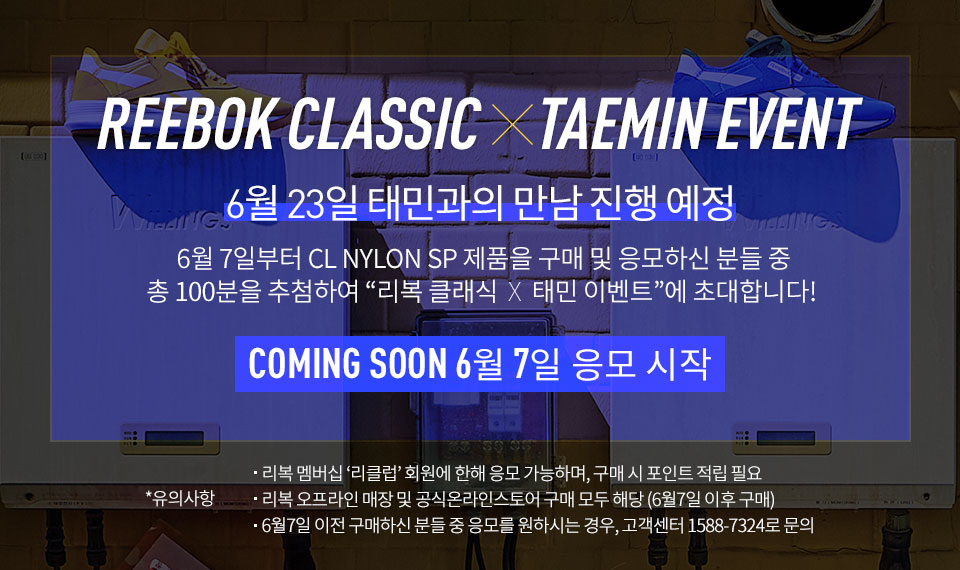
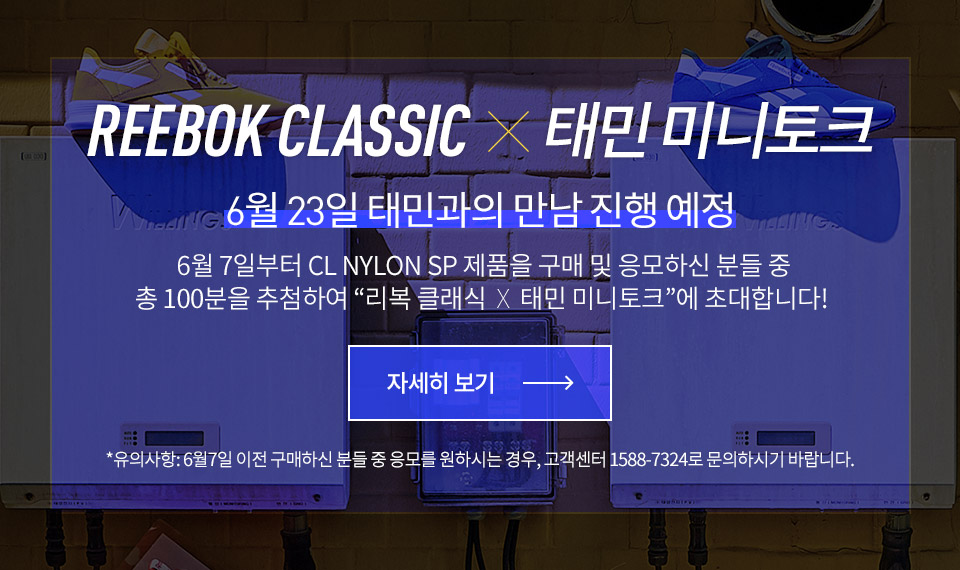
리복 태민 이벤트

diff --git a/app/html/reebok/event/aboutus/campaign/classic/nylon/build/index.html b/app/html/reebok/event/aboutus/campaign/classic/nylon/build/index.html
@@ -122,7 +122,7 @@
 			</section>
 
 			<section id="contents">
-<style type="text/css">#contents{padding-bottom:0px}.pseudo-element,.campaign .close:after,.campaign .close:before,.campaign .video_visual .video_layer:before,.campaign .video-btn:before,.campaign .location a:after{content:'';display:block}html{font-size:12px}@media screen and (max-width: 320px){html{font-size:10px}}@media screen and (min-width: 800px){html{font-size:12px}}.element_to_pop_up{background-color:#fafafb;color:#000;display:none;width:320px;overflow:hidden}@media screen and (max-width: 320px){.element_to_pop_up{width:300px}}.element_to_pop_up .b-close{cursor:pointer;position:absolute;right:15px;top:15px;text-align:right}.element_to_pop_up .b-close img{width:50%}.element_to_pop_up .con{text-align:center}.element_to_pop_up .con img{width:80%}.element_to_pop_up .desc{background:url("/images/reebok/about/heritage/pop_bg.png") 0 0 no-repeat;background-size:100% 100%;padding:3.5rem 0}.element_to_pop_up .desc .tle{position:relative;margin:0px 0 0 1rem;color:#000;font:600 4rem 'dinpro cond'}.element_to_pop_up .desc .tle:before{position:absolute;top:-20px;content:'';width:42px;height:2px;background:#000}.element_to_pop_up .desc .tle2{margin:1rem 0 0 1rem;color:#000;font:0.9rem/1.8rem  'NotoSansKR';letter-spacing:-0.8px}.element_to_pop_up .desc .btn{padding:2rem 0 0 1rem}.element_to_pop_up .desc .btn a.inner-buybtn{position:relative;display:inline-block;margin:0;padding:0 50px;color:#866432;border:2px solid #866432;font:15px/46px  'NotoSansKR';overflow:hidden}.element_to_pop_up .desc .btn a.inner-buybtn em{position:relative;z-index:100;transition:all 0.6s ease-out}.element_to_pop_up .desc .btn a.inner-buybtn .bg{display:inline-block;width:100%;height:63px;position:absolute;bottom:-64px;left:0;background:#866432;transition:all 0.4s ease-out}.element_to_pop_up .desc a.inner-buybtn:hover{color:#fff}.element_to_pop_up .desc a.inner-buybtn:hover .bg{bottom:-10px}.element_to_pop_up .bg_shoe{position:absolute;bottom:0;text-align:right}.element_to_pop_up .bg_shoe img{width:60%;mix-blend-mode:multiply}.clearfix:after{content:'.';display:block;height:0;font-size:0;clear:both;visibility:hidden}.campaign .close{width:40px;height:40px;display:block;position:absolute;top:0;right:0;z-index:10}.campaign .close:after,.campaign .close:before{width:50%;height:1px;position:absolute;top:50%;left:50%;transform:translate3d(-50%, -50%, 0) rotate(45deg);-webkit-transform:translate3d(-50%, -50%, 0) rotate(45deg);background:#5c5c5c}.campaign .close:after{transform:translate3d(-50%, -50%, 0) rotate(-45deg);-webkit-transform:translate3d(-50%, -50%, 0) rotate(-45deg)}.campaign .button_area{padding:0rem 0px;text-align:center}.campaign .button_area .button{padding:1.2rem 2.5rem;display:inline-block;font:500 1.3rem 'dinpro cond','NotoSansKR';color:#000;border:1px solid  #000}.campaign .video_visual{box-sizing:border-box;-webkit-box-sizing:border-box;width:100%;padding-bottom:123.4375%;position:relative}.campaign .video_visual .cover{width:100%;position:absolute;top:50%;left:0;transform:translate3d(0, -50%, 0);-webkit-transform:translate3d(0, -50%, 0);z-index:1}.campaign .video_visual .cover h2{font:4rem/4rem 'QStencil';text-align:center}.campaign .video_visual .bg{position:absolute;width:100%;height:100%}.campaign .video_visual .bg img{width:100%}.campaign .video_visual .video_layer{position:absolute;top:0;left:0;width:100%;height:100%;z-index:-1;overflow:hidden}.campaign .video_visual .video_layer .close{width:40px;height:40px;top:5px;right:5px;opacity:0;transition:opacity 0.5s ease 0.3s;-webkit-transition:opacity 0.5s 0.3s}.campaign .video_visual .video_layer .close:before,.campaign .video_visual .video_layer .close:after{width:70%;height:2px;background:#fff}.campaign .video_visual .video_layer iframe{position:relative;z-index:3}.campaign .video_visual .video_layer:before{width:100%;height:100%;transition:all 0.5s;-webkit-transition:all 0.5s;background:#000;filter:blur(10px);-webkit-filter:blur(10px);opacity:0;transform-origin:center center;-webkit-transform-origin:center center;transform:scale(0);-webkit-transform:scale(0);position:absolute;top:0;left:0}.campaign .video_visual .video_layer.active{z-index:1}.campaign .video_visual .video_layer.active .close{opacity:1}.campaign .video_visual .video_layer.active:before{opacity:1;transform:scale(2);-webkit-transform:scale(2)}.campaign .video_visual .video_layer.hide{z-index:1}.campaign .video_visual .video_layer.hide .close{opacity:0;transition-delay:0;-webkit-transition-delay:0}.campaign .video_visual .video_layer.hide:before{opacity:0;transform:scale(0);-webkit-transform:scale(0)}.campaign .video-btn{width:70px;height:70px;display:block;border:7px solid  #fff;position:relative;border-radius:70px;box-sizing:border-box;-webkit-box-sizing:border-box}.campaign .video-btn:before{position:absolute;top:50%;left:50%;border-top:14px solid transparent;border-bottom:14px solid transparent;border-left:14px solid #fff;margin-left:2px;transform:translate3d(-50%, -50%, 0);-webkit-transform:translate3d(-50%, -50%, 0)}.campaign .location{display:-webkit-flex;display:-moz-flex;display:-ms-flex;display:-o-flex;display:flex;padding:15px 13px;border-top:2px solid  #b71720;background:#252525}.campaign .location>*{margin-right:15px;font:500 13px 'dinpro cond';text-transform:uppercase}.campaign .location a{position:relative;color:#8c8c8c}.campaign .location a:after{width:4px;height:4px;position:absolute;top:2px;right:-9px;border-bottom:1px solid #5c5c5c;border-right:1px solid #5c5c5c;transform:rotate(-45deg);-webkit-transform:rotate(-45deg)}.campaign .location>span{color:#fff;margin-right:0}.campaign .location>span .colab{margin:0px 2px;font-family:'dinpro cond';font-weight:100}.campaign .num_paging{text-align:center}.campaign .num_paging a{width:26px;height:26px;border-radius:26px;margin:0 2px;display:inline-block;border:1px solid #fff;box-sizing:border-box;color:#fff;font:16px/26px 'reefont-condensed';transition-duration:0s;-webkit-transition-duration:0s}.campaign .num_paging .on{color:#000;border-color:#000;background:#000;color:#fff}.campaign .prodlist{width:100%;padding:0 15px;position:relative;display:-webkit-flex;display:-moz-flex;display:-ms-flex;display:-o-flex;display:flex;-webkit-flex-wrap:wrap;flex-wrap:wrap;box-sizing:border-box;-webkit-box-sizing:border-box}.campaign .prodlist>.box{width:50%;margin-bottom:10px}.campaign .prodlist>.box .inner{width:100%;padding-right:5px;position:relative;box-sizing:border-box;-webkit-box-sizing:border-box}.campaign .prodlist>.box .inner>a{width:100%;width:calc(100% - 5px);height:100%;position:absolute;top:0;left:0;display:block;z-index:5}.campaign .prodlist>.box .img{width:100%;position:relative;padding-bottom:122.6190%;background:#fff}.campaign .prodlist>.box .img img{position:absolute;top:0;left:0;width:100%}.campaign .prodlist>.box .info{padding:20px 0 20px 12px;background:#fff}.campaign .prodlist>.box .info>*{text-transform:uppercase;font:500 1rem 'dinpro cond'}.campaign .prodlist>.box .info .ctgr{margin-bottom:0.2rem;color:#7f7979}.campaign .prodlist>.box .info .tit a{color:#252525;font:500 1.4rem 'dinpro cond'}.campaign .prodlist>.box:nth-child(2n) .inner{padding-right:0;padding-left:5px}.main .video_visual{width:100%;padding-bottom:104%;position:relative}.main .video_visual .cover>*{color:#fff;text-align:center}.main .video_visual .cover h2{font:5.4rem/5rem 'QStencil';color:#fff;margin-bottom:1.2rem}.main .video_visual .cover .desc{margin-bottom:2rem;font:300 1.6rem 'NotoSansKR'}.main .video_visual .cover .video-btn{width:60px;height:60px;border-width:6px;margin:0 auto}.main .video_visual .cover .video-btn:before{border-top-width:12px;border-bottom-width:12px;border-left-width:12px}.main .video_visual .bg{overflow:hidden}.main .video_visual .bg img{position:absolute;top:0;left:0;opacity:0;transform:scale(1.02);-webkit-transform:scale(1.02);transition:all 1.5s;-webkit-transition:all 1.5s}.main .video_visual .bg img.active{opacity:1;transform:scale(1);-webkit-transform:scale(1)}.main .camapign_list a{width:100%;padding-bottom:104%}.main .camapign_list img{width:100%}.about_campaign .banner{width:100%}.about_campaign .banner *{display:block;width:100%}.about_campaign .list_btn{background:#e8e8e8;padding:4rem 1.5rem}.about_campaign .list_btn a{width:100%;height:5rem;display:block;border:1px solid #2e2e2e;text-align:center;font:500 2.2rem/5rem 'dinpro cond';color:#000;letter-spacing:2px}.about_campaign .list{background:#333;text-align:center}.about_campaign .list a{color:#fff;display:block;padding:2.3rem 6rem}.about_campaign .list a span{position:relative;left:-5px;display:inline-block;width:68%;vertical-align:middle}.about_campaign .list a span img{width:100%}.about_campaign .list a em{vertical-align:middle}.about_campaign .list a em:after{font-size:15px;position:relative;top:1px}.about_campaign .list a:after{font-size:1.5rem;padding:0.5rem 0 0 1rem;display:inline-block}#video-layer.popup-video.loaded .bg{opacity:.7}#video-layer.popup-video .video-box{position:absolute;top:50%;left:50%;width:100%;height:50%;transform:translate(-50%, -50%);-webkit-transform:translate(-50%, -50%);-moz-transform:translate(-50%, -50%);-o-transform:translate(-50%, -50%);-ms-transform:translate(-50%, -50%);z-index:3}#video-layer.popup-video .close_x_btn{width:50px;height:50px;top:12%}#video-layer{position:fixed;top:0;left:0;width:100%;height:100%;z-index:1000}#video-layer.loaded .bg{opacity:1;transform:scale(1.2);-webkit-transform:scale(1.2)}#video-layer.loaded .close_x_btn{opacity:1}#video-layer .video-box{position:relative;width:100%;height:100%;z-index:3}#video-layer .close_x_btn{width:70px;height:70px;position:absolute;top:0;right:0;z-index:5;opacity:0}#video-layer .bg{width:100%;height:100%;position:absolute;top:0;left:0;transform-origin:center center;-webkit-transform-origin:center center;transform:scale(0);-webkit-transform:scale(0);opacity:0;background:#000;z-index:1;transition:all 0.4s;-webkit-transition:all 0.4s}.main_list .video_visual{position:relative;background:#eff0ea;padding-bottom:149%}@media screen and (min-width: 750px){.main_list .video_visual{padding-bottom:125%}}.main_list .video_visual .bg img{box-sizing:border-box;-webkit-box-sizing:border-box;border:10px solid #eff0ea}.main_list .video_visual .cover{top:35%}.main_list .video_visual .txt{position:absolute;bottom:8%;width:100%;text-align:center}.main_list .video_visual .txt a.full_link{position:absolute;top:-16px;left:0;width:100%;height:143%}@media screen and (min-width: 750px){.main_list .video_visual .txt{bottom:6%}}.main_list .video_visual .txt .title{font:3.3rem 'QStencil'}.main_list .video_visual .txt .tit{display:inline-block;padding-bottom:1.5rem;font:400 1.2rem 'NotoSansKR';letter-spacing:-1px}.main_list .video_visual .txt .btn a{display:inline-block;padding:0.3rem 3.5rem 0 3.5rem;border:1px solid #151515;font:400 1.3rem/3.8rem 'dinpro cond', 'NotoSansKR';color:#000}.main_list .box{position:relative;border-bottom:2px solid #bebfba}.main_list .box a.nano_m{position:absolute;top:0;left:0;width:50%;height:100%}.main_list .box a.nano_w{position:absolute;top:0;right:0;width:50%;height:100%}.main_list .box a.full_link{position:absolute;top:0;left:0;width:100%;height:100%}.main_list .box .img{border:10px solid #eff0ea;box-sizing:border-box;-webkit-box-sizing:border-box}.main_list .box .img img{width:100%}.main_list .box .txt{padding:1rem 0 3rem 0;text-align:center;background:#eff0ea}.main_list .box .txt .title{font:3.8rem 'QStencil'}.main_list .box .txt .title span{display:inline-block;vertical-align:middle;line-height:4rem}.main_list .box .txt .title span img{width:3.3rem}.main_list .box .txt .tit{display:inline-block;padding-bottom:1.5rem;font:400 1.1rem 'NotoSansKR';letter-spacing:-1px}.main_list .box .txt .btn a{display:inline-block;width:12rem;padding:0.3rem 0 0 0;border:1px solid #151515;font:1.3rem/3.8rem 'dinpro cond', 'NotoSansKR';color:#000}.campaign_list_update{display:block;background:url("/images/reebok/about/campaign_list/bg.jpg");background-size:100%;padding:8rem 1rem 4rem 1rem}.campaign_list_update .box{padding-bottom:1rem}.campaign_list_update .box a{display:block}.campaign_list_update .box a img{width:100%}.campaign_list_update .box:last-child{padding-bottom:0px}.nylon .main_section{position:relative}.nylon .main_section .bg img{width:100%}.nylon .main_section .inn{position:absolute;top:65%;left:50%;width:100%;transform:translate(-50%, -50%);-webkit-transform:translate(-50%, -50%);text-align:center}.nylon .main_section .inn .btn{position:relative;margin:10px 1px;display:inline-block;width:165px;background:rgba(0,0,0,0.3);border:1px solid #fff}.nylon .main_section .inn .btn em{color:#fff;font:700 13px/43px 'NotoSansKR';text-transform:uppercase;position:relative;left:-31px}.nylon .main_section .inn .btn span{position:absolute;right:20px;top:16px;width:41px;height:13px;display:inline-block;background:url(/images/reebok/about/classic/nylon/icon_arrow.png) no-repeat;background-size:100%}.nylon .title{padding:35px 0;text-align:center}.nylon .title img{width:60%}.nylon .video_wrap{margin:50px 30px;text-align:center}.nylon .video_wrap .video{margin:0 0 25px 0}.nylon .video_wrap .video img{width:100%}.nylon .video_wrap .title{padding:10px 0 14px;font:40px/30px 'dinpro cond';font-weight:700;text-transform:uppercase;text-align:center}.nylon .video_wrap .title em{font:40px/38px 'dinpro cond';font-weight:100}.nylon .video_wrap .btn{position:relative;margin:10px 1px;display:inline-block;width:45%;border:2px solid #000}.nylon .video_wrap .btn em{color:#000;font:700 13px/43px 'NotoSansKR';text-transform:uppercase;position:relative;left:-29px}.nylon .video_wrap .btn span{position:absolute;right:20px;top:18px;width:41px;height:13px;display:inline-block;background:url(/images/reebok/about/classic/nylon/icon_b_arrow.png) no-repeat;background-size:100%}.nylon .slider_wrap{position:relative;padding:0 40px 35px;background:url(/images/reebok/about/classic/nylon/slide_bg.jpg) 0 no-repeat;background-size:100% auto;background-position:bottom;opacity:0;-webkit-opacity:0;transition:all 0.5s}.nylon .slider_wrap.effect{opacity:1;-webkit-opacity:1}.nylon .slider_wrap .num_paging{position:relative;top:5px;text-align:right}.nylon .slider_wrap .num_paging a{display:inline-block;width:12px;height:12px;border:2px solid #ffd940;border-radius:0}.nylon .slider_wrap .num_paging a.on{background:#ffd940}.nylon .collections3{overflow:hidden}.nylon .collections3 ul li{position:relative;float:left;padding-bottom:15px;overflow:hidden}.nylon .collections3 ul li.on .img_section img{left:0;opacity:1;-webkit-opacity:1}.nylon .collections3 ul li.on .img_section .tit{opacity:1;-webkit-opacity:1}.nylon .collections3 ul li.slide1 .img_section img{width:96%}.nylon .collections3 ul li.slide1 .img_section:after{position:absolute;top:13px;right:-14px;content:'';display:block;width:100%;height:100%;background:#ffd940}.nylon .collections3 ul li.slide3 .img_section{text-align:center}.nylon .collections3 ul li.slide3 .img_section img{width:95%}.nylon .collections3 ul li.slide3 .img_section:after{position:absolute;top:16%;left:0;content:'';display:block;width:100%;height:86%;background:#ffeeab}.nylon .collections3 ul li .bt_area{width:100%;background:url("/images/reebok/about/Critic_collaboration/bt_bg.png") 0 0 no-repeat;background-size:100%;padding-top:1.5rem;padding-bottom:2rem;margin:0 0 2rem 0}.nylon .collections3 ul li .bt_area .bt_buy{width:93%;margin:0 auto;height:3.3rem;padding:0.8rem 0}.nylon .collections3 ul li .img_section{position:relative}.nylon .collections3 ul li .img_section img{position:relative;left:-50px;width:100%;z-index:1;opacity:0;-webkit-opacity:0;transition:all 0.5s;-webkit-transition:all 0.5s;transition-delay:0.2s}.nylon .collections3 ul li .img_section .tit{width:25px;height:25px;background:rgba(0,0,0,0.8);text-align:center;color:#fff;font:500 14px/25px 'dinpro','Nanum Gothic';box-sizing:border-box;-webkit-box-sizing:border-box;opacity:0;-webkit-opacity:0;transition:opacity 0.5s;-webkit-transition:opacity 0.5s;transition-delay:0.5s;z-index:1}.nylon .collections3 ul li .img_section .tit.active{border:1px solid #fff;line-height:22px}.nylon .collections3 ul:after{content:'';display:block;clear:both}.nylon .collections3 .prd_titles_wrap{position:relative;padding-bottom:47%}@media screen and (max-width: 320px){.nylon .collections3 .prd_titles_wrap{padding-bottom:54%}}.nylon .collections3 .prd_titles_wrap a{position:absolute;top:0;left:0;width:100%;height:20px;z-index:2}.nylon .collections3 .prd_titles_wrap .prd_titles{position:absolute;top:15px;left:0;width:100%;opacity:0;-webkit-opacity:0;transition:all 0.5s;-webkit-transition:all 0.5s}.nylon .collections3 .prd_titles_wrap .prd_titles.on{opacity:1}.nylon .collections3 .prd_titles_wrap .prd_titles .title_box{position:relative;margin:0 0 10px 0}.nylon .collections3 .prd_titles_wrap .prd_titles .title_box.active span.label{border:1px solid #fff}.nylon .collections3 .prd_titles_wrap .prd_titles .title_box>*{display:inline-block}.nylon .collections3 .prd_titles_wrap .prd_titles .title_box span.label{position:absolute;left:0;top:5px;width:25px;height:25px;color:#000;text-align:center;font:500 12px/23px 'dinpro','Nanum Gothic';box-sizing:border-box;-webkit-box-sizing:border-box;background:#000;color:#fff;border:1px solid #000}.nylon .collections3 .prd_titles_wrap .prd_titles .title_box p{position:relative;width:100%;margin-left:32px}.nylon .collections3 .prd_titles_wrap .prd_titles .title_box p strong{position:relative;font:400 13px/23px 'dinpro cond','Nanum Gothic';background:none;margin-right:10px;color:#fff;letter-spacing:0.7px;z-index:1}@media screen and (max-width: 320px){.nylon .collections3 .prd_titles_wrap .prd_titles .title_box p strong{margin-right:2px;font-size:11px}}.nylon .collections3 .prd_titles_wrap .prd_titles .title_box p em{position:relative;color:#fff;font:500 14px/30px 'NotoSansKR','Nanum Gothic';z-index:1;letter-spacing:-0.7px}@media screen and (max-width: 320px){.nylon .collections3 .prd_titles_wrap .prd_titles .title_box p em{font-size:12px}}.nylon .collections3 .prd_titles_wrap .prd_titles .title_box p:after{content:'';display:inline-block;position:absolute;bottom:6px;left:0;width:100%;background:#005985;width:100%;height:5px}.nylon .collections3 .prd_titles_wrap .prd_titles .title_box .btn_wrap{position:absolute;top:-4px;right:1px}.nylon .collections3 .prd_titles_wrap .prd_titles .title_box .btn_wrap span.btn{position:relative;display:inline-block;padding-right:30px}.nylon .collections3 .prd_titles_wrap .prd_titles .title_box .btn_wrap span.btn em{color:#fff;font:700 11px/43px 'dinpro cond';text-transform:uppercase;position:relative;letter-spacing:-0.7px}.nylon .collections3 .prd_titles_wrap .prd_titles .title_box .btn_wrap span.btn span{position:absolute;right:0px;top:18px;width:20px;height:8px;display:inline-block;background:url(/images/reebok/about/classic/nylon/icon_arrow.png) no-repeat;background-size:100%}.nylon .event_area{opacity:0;-webkit-opacity:0;transition:all 0.5s}.nylon .event_area.effect{opacity:1;-webkit-opacity:1}.nylon .event_area img{width:100%}.nylon .event_area a.link{display:block;position:absolute;text-indent:-9999px}.selectbox-ctm{height:40px;position:relative;border:1px solid  #ccc}.selectbox-ctm select{height:100%;width:100%;position:relative;display:block;padding-left:20px;color:#000;font:400 14px/44px 'NotoSansKR','Nanum Gothic';background:#fff;z-index:4;border:0 none;box-sizing:border-box;-webkit-box-sizing:border-box}.selectbox-ctm>.arrow{width:14px;height:8px;position:absolute;top:50%;margin-top:-4px;right:14px;background-position:-70px -2400px;z-index:5}.selectbox-ctm.red>.arrow{background-position:-85px -2400px}.selectbox-ctm.disabled>.arrow{opacity:0.3;-ms-filter:alpha(opacity=30);filter:alpha(opacity=30)}.input-custom-check{display:block;position:relative;padding-left:30px;text-align:left;cursor:pointer;font:00 14px/20px 'NotoSansKR';-webkit-user-select:none;-moz-user-select:none;-ms-user-select:none;user-select:none}.input-custom-check input{position:absolute;opacity:0;cursor:pointer}.checkmark{position:absolute;top:0;left:0;height:20px;width:20px;background-color:#eee}.input-custom-check:hover input ~ .checkmark{background-color:#ccc}.input-custom-check input:checked ~ .checkmark{background-color:#ab2229}.checkmark:after{content:"";position:absolute;display:none}.input-custom-check input:checked ~ .checkmark:after{display:block}.input-custom-check .checkmark:after{left:7px;top:1px;width:4px;height:10px;border:solid white;border-width:0 3px 3px 0;-webkit-transform:rotate(45deg);-ms-transform:rotate(45deg);transform:rotate(45deg)}
+<style type="text/css">#contents{padding-bottom:0px}.pseudo-element,.campaign .close:after,.campaign .close:before,.campaign .video_visual .video_layer:before,.campaign .video-btn:before,.campaign .location a:after{content:'';display:block}html{font-size:12px}@media screen and (max-width: 320px){html{font-size:10px}}@media screen and (min-width: 800px){html{font-size:12px}}.element_to_pop_up{background-color:#fafafb;color:#000;display:none;width:320px;overflow:hidden}@media screen and (max-width: 320px){.element_to_pop_up{width:300px}}.element_to_pop_up .b-close{cursor:pointer;position:absolute;right:15px;top:15px;text-align:right}.element_to_pop_up .b-close img{width:50%}.element_to_pop_up .con{text-align:center}.element_to_pop_up .con img{width:80%}.element_to_pop_up .desc{background:url("/images/reebok/about/heritage/pop_bg.png") 0 0 no-repeat;background-size:100% 100%;padding:3.5rem 0}.element_to_pop_up .desc .tle{position:relative;margin:0px 0 0 1rem;color:#000;font:600 4rem 'dinpro cond'}.element_to_pop_up .desc .tle:before{position:absolute;top:-20px;content:'';width:42px;height:2px;background:#000}.element_to_pop_up .desc .tle2{margin:1rem 0 0 1rem;color:#000;font:0.9rem/1.8rem  'NotoSansKR';letter-spacing:-0.8px}.element_to_pop_up .desc .btn{padding:2rem 0 0 1rem}.element_to_pop_up .desc .btn a.inner-buybtn{position:relative;display:inline-block;margin:0;padding:0 50px;color:#866432;border:2px solid #866432;font:15px/46px  'NotoSansKR';overflow:hidden}.element_to_pop_up .desc .btn a.inner-buybtn em{position:relative;z-index:100;transition:all 0.6s ease-out}.element_to_pop_up .desc .btn a.inner-buybtn .bg{display:inline-block;width:100%;height:63px;position:absolute;bottom:-64px;left:0;background:#866432;transition:all 0.4s ease-out}.element_to_pop_up .desc a.inner-buybtn:hover{color:#fff}.element_to_pop_up .desc a.inner-buybtn:hover .bg{bottom:-10px}.element_to_pop_up .bg_shoe{position:absolute;bottom:0;text-align:right}.element_to_pop_up .bg_shoe img{width:60%;mix-blend-mode:multiply}.clearfix:after{content:'.';display:block;height:0;font-size:0;clear:both;visibility:hidden}.campaign .close{width:40px;height:40px;display:block;position:absolute;top:0;right:0;z-index:10}.campaign .close:after,.campaign .close:before{width:50%;height:1px;position:absolute;top:50%;left:50%;transform:translate3d(-50%, -50%, 0) rotate(45deg);-webkit-transform:translate3d(-50%, -50%, 0) rotate(45deg);background:#5c5c5c}.campaign .close:after{transform:translate3d(-50%, -50%, 0) rotate(-45deg);-webkit-transform:translate3d(-50%, -50%, 0) rotate(-45deg)}.campaign .button_area{padding:0rem 0px;text-align:center}.campaign .button_area .button{padding:1.2rem 2.5rem;display:inline-block;font:500 1.3rem 'dinpro cond','NotoSansKR';color:#000;border:1px solid  #000}.campaign .video_visual{box-sizing:border-box;-webkit-box-sizing:border-box;width:100%;padding-bottom:123.4375%;position:relative}.campaign .video_visual .cover{width:100%;position:absolute;top:50%;left:0;transform:translate3d(0, -50%, 0);-webkit-transform:translate3d(0, -50%, 0);z-index:1}.campaign .video_visual .cover h2{font:4rem/4rem 'QStencil';text-align:center}.campaign .video_visual .bg{position:absolute;width:100%;height:100%}.campaign .video_visual .bg img{width:100%}.campaign .video_visual .video_layer{position:absolute;top:0;left:0;width:100%;height:100%;z-index:-1;overflow:hidden}.campaign .video_visual .video_layer .close{width:40px;height:40px;top:5px;right:5px;opacity:0;transition:opacity 0.5s ease 0.3s;-webkit-transition:opacity 0.5s 0.3s}.campaign .video_visual .video_layer .close:before,.campaign .video_visual .video_layer .close:after{width:70%;height:2px;background:#fff}.campaign .video_visual .video_layer iframe{position:relative;z-index:3}.campaign .video_visual .video_layer:before{width:100%;height:100%;transition:all 0.5s;-webkit-transition:all 0.5s;background:#000;filter:blur(10px);-webkit-filter:blur(10px);opacity:0;transform-origin:center center;-webkit-transform-origin:center center;transform:scale(0);-webkit-transform:scale(0);position:absolute;top:0;left:0}.campaign .video_visual .video_layer.active{z-index:1}.campaign .video_visual .video_layer.active .close{opacity:1}.campaign .video_visual .video_layer.active:before{opacity:1;transform:scale(2);-webkit-transform:scale(2)}.campaign .video_visual .video_layer.hide{z-index:1}.campaign .video_visual .video_layer.hide .close{opacity:0;transition-delay:0;-webkit-transition-delay:0}.campaign .video_visual .video_layer.hide:before{opacity:0;transform:scale(0);-webkit-transform:scale(0)}.campaign .video-btn{width:70px;height:70px;display:block;border:7px solid  #fff;position:relative;border-radius:70px;box-sizing:border-box;-webkit-box-sizing:border-box}.campaign .video-btn:before{position:absolute;top:50%;left:50%;border-top:14px solid transparent;border-bottom:14px solid transparent;border-left:14px solid #fff;margin-left:2px;transform:translate3d(-50%, -50%, 0);-webkit-transform:translate3d(-50%, -50%, 0)}.campaign .location{display:-webkit-flex;display:-moz-flex;display:-ms-flex;display:-o-flex;display:flex;padding:15px 13px;border-top:2px solid  #b71720;background:#252525}.campaign .location>*{margin-right:15px;font:500 13px 'dinpro cond';text-transform:uppercase}.campaign .location a{position:relative;color:#8c8c8c}.campaign .location a:after{width:4px;height:4px;position:absolute;top:2px;right:-9px;border-bottom:1px solid #5c5c5c;border-right:1px solid #5c5c5c;transform:rotate(-45deg);-webkit-transform:rotate(-45deg)}.campaign .location>span{color:#fff;margin-right:0}.campaign .location>span .colab{margin:0px 2px;font-family:'dinpro cond';font-weight:100}.campaign .num_paging{text-align:center}.campaign .num_paging a{width:26px;height:26px;border-radius:26px;margin:0 2px;display:inline-block;border:1px solid #fff;box-sizing:border-box;color:#fff;font:16px/26px 'reefont-condensed';transition-duration:0s;-webkit-transition-duration:0s}.campaign .num_paging .on{color:#000;border-color:#000;background:#000;color:#fff}.campaign .prodlist{width:100%;padding:0 15px;position:relative;display:-webkit-flex;display:-moz-flex;display:-ms-flex;display:-o-flex;display:flex;-webkit-flex-wrap:wrap;flex-wrap:wrap;box-sizing:border-box;-webkit-box-sizing:border-box}.campaign .prodlist>.box{width:50%;margin-bottom:10px}.campaign .prodlist>.box .inner{width:100%;padding-right:5px;position:relative;box-sizing:border-box;-webkit-box-sizing:border-box}.campaign .prodlist>.box .inner>a{width:100%;width:calc(100% - 5px);height:100%;position:absolute;top:0;left:0;display:block;z-index:5}.campaign .prodlist>.box .img{width:100%;position:relative;padding-bottom:122.6190%;background:#fff}.campaign .prodlist>.box .img img{position:absolute;top:0;left:0;width:100%}.campaign .prodlist>.box .info{padding:20px 0 20px 12px;background:#fff}.campaign .prodlist>.box .info>*{text-transform:uppercase;font:500 1rem 'dinpro cond'}.campaign .prodlist>.box .info .ctgr{margin-bottom:0.2rem;color:#7f7979}.campaign .prodlist>.box .info .tit a{color:#252525;font:500 1.4rem 'dinpro cond'}.campaign .prodlist>.box:nth-child(2n) .inner{padding-right:0;padding-left:5px}.main .video_visual{width:100%;padding-bottom:104%;position:relative}.main .video_visual .cover>*{color:#fff;text-align:center}.main .video_visual .cover h2{font:5.4rem/5rem 'QStencil';color:#fff;margin-bottom:1.2rem}.main .video_visual .cover .desc{margin-bottom:2rem;font:300 1.6rem 'NotoSansKR'}.main .video_visual .cover .video-btn{width:60px;height:60px;border-width:6px;margin:0 auto}.main .video_visual .cover .video-btn:before{border-top-width:12px;border-bottom-width:12px;border-left-width:12px}.main .video_visual .bg{overflow:hidden}.main .video_visual .bg img{position:absolute;top:0;left:0;opacity:0;transform:scale(1.02);-webkit-transform:scale(1.02);transition:all 1.5s;-webkit-transition:all 1.5s}.main .video_visual .bg img.active{opacity:1;transform:scale(1);-webkit-transform:scale(1)}.main .camapign_list a{width:100%;padding-bottom:104%}.main .camapign_list img{width:100%}.about_campaign .banner{width:100%}.about_campaign .banner *{display:block;width:100%}.about_campaign .list_btn{background:#e8e8e8;padding:4rem 1.5rem}.about_campaign .list_btn a{width:100%;height:5rem;display:block;border:1px solid #2e2e2e;text-align:center;font:500 2.2rem/5rem 'dinpro cond';color:#000;letter-spacing:2px}.about_campaign .list{background:#333;text-align:center}.about_campaign .list a{color:#fff;display:block;padding:2.3rem 6rem}.about_campaign .list a span{position:relative;left:-5px;display:inline-block;width:68%;vertical-align:middle}.about_campaign .list a span img{width:100%}.about_campaign .list a em{vertical-align:middle}.about_campaign .list a em:after{font-size:15px;position:relative;top:1px}.about_campaign .list a:after{font-size:1.5rem;padding:0.5rem 0 0 1rem;display:inline-block}#video-layer.popup-video.loaded .bg{opacity:.7}#video-layer.popup-video .video-box{position:absolute;top:50%;left:50%;width:100%;height:50%;transform:translate(-50%, -50%);-webkit-transform:translate(-50%, -50%);-moz-transform:translate(-50%, -50%);-o-transform:translate(-50%, -50%);-ms-transform:translate(-50%, -50%);z-index:3}#video-layer.popup-video .close_x_btn{width:50px;height:50px;top:12%}#video-layer{position:fixed;top:0;left:0;width:100%;height:100%;z-index:1000}#video-layer.loaded .bg{opacity:1;transform:scale(1.2);-webkit-transform:scale(1.2)}#video-layer.loaded .close_x_btn{opacity:1}#video-layer .video-box{position:relative;width:100%;height:100%;z-index:3}#video-layer .close_x_btn{width:70px;height:70px;position:absolute;top:0;right:0;z-index:5;opacity:0}#video-layer .bg{width:100%;height:100%;position:absolute;top:0;left:0;transform-origin:center center;-webkit-transform-origin:center center;transform:scale(0);-webkit-transform:scale(0);opacity:0;background:#000;z-index:1;transition:all 0.4s;-webkit-transition:all 0.4s}.main_list .video_visual{position:relative;background:#eff0ea;padding-bottom:149%}@media screen and (min-width: 750px){.main_list .video_visual{padding-bottom:125%}}.main_list .video_visual .bg img{box-sizing:border-box;-webkit-box-sizing:border-box;border:10px solid #eff0ea}.main_list .video_visual .cover{top:35%}.main_list .video_visual .txt{position:absolute;bottom:8%;width:100%;text-align:center}.main_list .video_visual .txt a.full_link{position:absolute;top:-16px;left:0;width:100%;height:143%}@media screen and (min-width: 750px){.main_list .video_visual .txt{bottom:6%}}.main_list .video_visual .txt .title{font:3.3rem 'QStencil'}.main_list .video_visual .txt .tit{display:inline-block;padding-bottom:1.5rem;font:400 1.2rem 'NotoSansKR';letter-spacing:-1px}.main_list .video_visual .txt .btn a{display:inline-block;padding:0.3rem 3.5rem 0 3.5rem;border:1px solid #151515;font:400 1.3rem/3.8rem 'dinpro cond', 'NotoSansKR';color:#000}.main_list .box{position:relative;border-bottom:2px solid #bebfba}.main_list .box a.nano_m{position:absolute;top:0;left:0;width:50%;height:100%}.main_list .box a.nano_w{position:absolute;top:0;right:0;width:50%;height:100%}.main_list .box a.full_link{position:absolute;top:0;left:0;width:100%;height:100%}.main_list .box .img{border:10px solid #eff0ea;box-sizing:border-box;-webkit-box-sizing:border-box}.main_list .box .img img{width:100%}.main_list .box .txt{padding:1rem 0 3rem 0;text-align:center;background:#eff0ea}.main_list .box .txt .title{font:3.8rem 'QStencil'}.main_list .box .txt .title span{display:inline-block;vertical-align:middle;line-height:4rem}.main_list .box .txt .title span img{width:3.3rem}.main_list .box .txt .tit{display:inline-block;padding-bottom:1.5rem;font:400 1.1rem 'NotoSansKR';letter-spacing:-1px}.main_list .box .txt .btn a{display:inline-block;width:12rem;padding:0.3rem 0 0 0;border:1px solid #151515;font:1.3rem/3.8rem 'dinpro cond', 'NotoSansKR';color:#000}.campaign_list_update{display:block;background:url("/images/reebok/about/campaign_list/bg.jpg");background-size:100%;padding:8rem 1rem 4rem 1rem}.campaign_list_update .box{padding-bottom:1rem}.campaign_list_update .box a{display:block}.campaign_list_update .box a img{width:100%}.campaign_list_update .box:last-child{padding-bottom:0px}.nylon .main_section{position:relative}.nylon .main_section .bg img{width:100%}.nylon .main_section .inn{position:absolute;top:65%;left:50%;width:100%;transform:translate(-50%, -50%);-webkit-transform:translate(-50%, -50%);text-align:center}.nylon .main_section .inn .btn{position:relative;margin:10px 1px;display:inline-block;width:165px;background:rgba(0,0,0,0.3);border:1px solid #fff}.nylon .main_section .inn .btn em{color:#fff;font:700 13px/43px 'NotoSansKR';text-transform:uppercase;position:relative;left:-31px}.nylon .main_section .inn .btn span{position:absolute;right:20px;top:16px;width:41px;height:13px;display:inline-block;background:url(/images/reebok/about/classic/nylon/icon_arrow.png) no-repeat;background-size:100%}.nylon .title{padding:35px 0;text-align:center}.nylon .title img{width:60%}.nylon .video_wrap{margin:50px 30px;text-align:center}.nylon .video_wrap .video{margin:0 0 25px 0}.nylon .video_wrap .video img{width:100%}.nylon .video_wrap .title{padding:10px 0 14px;font:40px/30px 'dinpro cond';font-weight:700;text-transform:uppercase;text-align:center}.nylon .video_wrap .title em{font:40px/38px 'dinpro cond';font-weight:100}.nylon .video_wrap .btn{position:relative;margin:10px 1px;display:inline-block;width:45%;border:2px solid #000}.nylon .video_wrap .btn em{color:#000;font:700 13px/43px 'NotoSansKR';text-transform:uppercase;position:relative;left:-29px}.nylon .video_wrap .btn span{position:absolute;right:20px;top:18px;width:41px;height:13px;display:inline-block;background:url(/images/reebok/about/classic/nylon/icon_b_arrow.png) no-repeat;background-size:100%}.nylon .slider_wrap{position:relative;padding:0 40px 35px;background:url(/images/reebok/about/classic/nylon/slide_bg.jpg) 0 no-repeat;background-size:100% auto;background-position:bottom;opacity:0;-webkit-opacity:0;transition:all 0.5s}.nylon .slider_wrap.effect{opacity:1;-webkit-opacity:1}.nylon .slider_wrap .num_paging{position:relative;top:5px;text-align:right}.nylon .slider_wrap .num_paging a{display:inline-block;width:12px;height:12px;border:2px solid #ffd940;border-radius:0}.nylon .slider_wrap .num_paging a.on{background:#ffd940}.nylon .collections3{overflow:hidden}.nylon .collections3 ul li{position:relative;float:left;padding-bottom:15px;overflow:hidden}.nylon .collections3 ul li.on .img_section img{left:0;opacity:1;-webkit-opacity:1}.nylon .collections3 ul li.on .img_section .tit{opacity:1;-webkit-opacity:1}.nylon .collections3 ul li.slide1 .img_section img{width:96%}.nylon .collections3 ul li.slide1 .img_section:after{position:absolute;top:13px;right:-14px;content:'';display:block;width:100%;height:100%;background:#ffd940}.nylon .collections3 ul li.slide3 .img_section{text-align:center}.nylon .collections3 ul li.slide3 .img_section img{width:95%}.nylon .collections3 ul li.slide3 .img_section:after{position:absolute;top:16%;left:0;content:'';display:block;width:100%;height:86%;background:#ffeeab}.nylon .collections3 ul li .bt_area{width:100%;background:url("/images/reebok/about/Critic_collaboration/bt_bg.png") 0 0 no-repeat;background-size:100%;padding-top:1.5rem;padding-bottom:2rem;margin:0 0 2rem 0}.nylon .collections3 ul li .bt_area .bt_buy{width:93%;margin:0 auto;height:3.3rem;padding:0.8rem 0}.nylon .collections3 ul li .img_section{position:relative}.nylon .collections3 ul li .img_section img{position:relative;left:-50px;width:100%;z-index:1;opacity:0;-webkit-opacity:0;transition:all 0.5s;-webkit-transition:all 0.5s;transition-delay:0.2s}.nylon .collections3 ul li .img_section .tit{width:25px;height:25px;background:rgba(0,0,0,0.8);text-align:center;color:#fff;font:500 14px/25px 'dinpro','Nanum Gothic';box-sizing:border-box;-webkit-box-sizing:border-box;opacity:0;-webkit-opacity:0;transition:opacity 0.5s;-webkit-transition:opacity 0.5s;transition-delay:0.5s;z-index:1}.nylon .collections3 ul li .img_section .tit.active{border:1px solid #fff;line-height:22px}.nylon .collections3 ul:after{content:'';display:block;clear:both}.nylon .collections3 .prd_titles_wrap{position:relative;padding-bottom:47%}@media screen and (max-width: 320px){.nylon .collections3 .prd_titles_wrap{padding-bottom:54%}}.nylon .collections3 .prd_titles_wrap a{position:absolute;top:0;left:0;width:100%;height:20px;z-index:2}.nylon .collections3 .prd_titles_wrap .prd_titles{position:absolute;top:15px;left:0;width:100%;opacity:0;-webkit-opacity:0;transition:all 0.5s;-webkit-transition:all 0.5s}.nylon .collections3 .prd_titles_wrap .prd_titles.on{opacity:1}.nylon .collections3 .prd_titles_wrap .prd_titles .title_box{position:relative;margin:0 0 10px 0}.nylon .collections3 .prd_titles_wrap .prd_titles .title_box.active span.label{border:1px solid #fff}.nylon .collections3 .prd_titles_wrap .prd_titles .title_box>*{display:inline-block}.nylon .collections3 .prd_titles_wrap .prd_titles .title_box span.label{position:absolute;left:0;top:5px;width:25px;height:25px;color:#000;text-align:center;font:500 12px/23px 'dinpro','Nanum Gothic';box-sizing:border-box;-webkit-box-sizing:border-box;background:#000;color:#fff;border:1px solid #000}.nylon .collections3 .prd_titles_wrap .prd_titles .title_box p{position:relative;width:100%;margin-left:32px}.nylon .collections3 .prd_titles_wrap .prd_titles .title_box p strong{position:relative;font:400 13px/23px 'dinpro cond','Nanum Gothic';background:none;margin-right:10px;color:#fff;letter-spacing:0.7px;z-index:1}@media screen and (max-width: 320px){.nylon .collections3 .prd_titles_wrap .prd_titles .title_box p strong{margin-right:2px;font-size:11px}}.nylon .collections3 .prd_titles_wrap .prd_titles .title_box p em{position:relative;color:#fff;font:500 14px/30px 'NotoSansKR','Nanum Gothic';z-index:1;letter-spacing:-0.7px}@media screen and (max-width: 320px){.nylon .collections3 .prd_titles_wrap .prd_titles .title_box p em{font-size:12px}}.nylon .collections3 .prd_titles_wrap .prd_titles .title_box p:after{content:'';display:inline-block;position:absolute;bottom:6px;left:0;width:100%;background:#005985;width:100%;height:5px}.nylon .collections3 .prd_titles_wrap .prd_titles .title_box .btn_wrap{position:absolute;top:-4px;right:1px}.nylon .collections3 .prd_titles_wrap .prd_titles .title_box .btn_wrap span.btn{position:relative;display:inline-block;padding-right:30px}.nylon .collections3 .prd_titles_wrap .prd_titles .title_box .btn_wrap span.btn em{color:#fff;font:700 11px/43px 'dinpro cond';text-transform:uppercase;position:relative;letter-spacing:-0.7px}.nylon .collections3 .prd_titles_wrap .prd_titles .title_box .btn_wrap span.btn span{position:absolute;right:0px;top:18px;width:20px;height:8px;display:inline-block;background:url(/images/reebok/about/classic/nylon/icon_arrow.png) no-repeat;background-size:100%}.nylon .event_area{opacity:0;-webkit-opacity:0;transition:all 0.5s}.nylon .event_area a{display:block}.nylon .event_area.effect{opacity:1;-webkit-opacity:1}.nylon .event_area img{width:100%}.nylon .event_area a.link{display:block;position:absolute;text-indent:-9999px}
 </style>
 				<div class="campaign about_campaign nylon">
 
@@ -138,6 +138,10 @@
 							<a href="http://m.reebok.co.kr/MO/Promotion/landingPage.action?pageNo=600" class="btn"><em>신발 보기</em><span></span></a>
 							<a href="http://m.reebok.co.kr/MO/Promotion/landingPage.action?pageNo=601" class="btn"><em>의류 보기</em><span></span></a>
 						</div>
+					</div>
+
+					<div class="event_area scrollbox">
+						<a href="http://m.reebok.co.kr/MO/Club/clubCampainView.action?event_id=4645"><img src="/images/reebok/about/classic/nylon/bottom.jpg" alt=""></a>
 					</div>
 
 
@@ -255,7 +259,7 @@
 							<em class="icons aft" data-icon=""></em>
 						</a>
 					</div>
-					
+
 					<!-- //promotion -->
 				</div>
 				<!-- //about_camapign -->

diff --git a/app/html/reebok/event/aboutus/campaign/classic/nylon/index.scss b/app/html/reebok/event/aboutus/campaign/classic/nylon/index.scss
@@ -372,6 +372,9 @@
         opacity: 0;
         -webkit-opacity: 0;
         transition: all 0.5s;
+        a{
+            display: block;
+        }
         &.effect{
             opacity: 1;
             -webkit-opacity: 1;
@@ -387,113 +390,3 @@
     }
 }
 // always classic
-
-/* select box customize */
-.selectbox-ctm{
-    height:40px;
-    position: relative;
-    border: 1px solid  #ccc;
-}
-
-.selectbox-ctm select{
-    height: 100%;
-    width: 100%;
-    position: relative;
-    display: block;
-    padding-left: 20px;
-    color: #000;
-    font: 400 14px/44px 'NotoSansKR','Nanum Gothic';
-    background: #fff;
-    z-index: 4;
-    border: 0 none;
-    box-sizing: border-box;
-    -webkit-box-sizing: border-box;
-}
-
-.selectbox-ctm>.arrow{
-    width: 14px;
-    height: 8px;
-    position: absolute;
-    top:50%;
-    margin-top: -4px;
-    right:14px;
-    background-position:-70px -2400px;
-    z-index: 5;
-}
-
-.selectbox-ctm.red>.arrow{
-    background-position: -85px -2400px;
-}
-
-.selectbox-ctm.disabled>.arrow{
-    opacity: 0.3;
-    -ms-filter: alpha(opacity=30);
-    filter: alpha(opacity=30);
-}
-
-/* check customize */
-
-.input-custom-check {
-    display: block;
-    position: relative;
-    padding-left: 30px;
-    text-align: left;
-    cursor: pointer;
-    font:00 14px/20px 'NotoSansKR';
-    -webkit-user-select: none;
-    -moz-user-select: none;
-    -ms-user-select: none;
-    user-select: none;
-}
-
-/* Hide the browser's default checkbox */
-.input-custom-check input {
-    position: absolute;
-    opacity: 0;
-    cursor: pointer;
-}
-
-/* Create a custom checkbox */
-.checkmark {
-    position: absolute;
-    top: 0;
-    left: 0;
-    height: 20px;
-    width: 20px;
-    background-color: #eee;
-}
-
-/* On mouse-over, add a grey background color */
-.input-custom-check:hover input ~ .checkmark {
-    background-color: #ccc;
-}
-
-/* When the checkbox is checked, add a blue background */
-.input-custom-check input:checked ~ .checkmark {
-    background-color: #ab2229;
-}
-
-/* Create the checkmark/indicator (hidden when not checked) */
-.checkmark:after {
-    content: "";
-    position: absolute;
-    display: none;
-}
-
-/* Show the checkmark when checked */
-.input-custom-check input:checked ~ .checkmark:after {
-    display: block;
-}
-
-/* Style the checkmark/indicator */
-.input-custom-check .checkmark:after {
-    left: 7px;
-    top: 1px;
-    width: 4px;
-    height: 10px;
-    border: solid white;
-    border-width: 0 3px 3px 0;
-    -webkit-transform: rotate(45deg);
-    -ms-transform: rotate(45deg);
-    transform: rotate(45deg);
-}

diff --git a/app/html/reebok/event/aboutus/campaign/classic/nylon/index.html b/app/html/reebok/event/aboutus/campaign/classic/nylon/index.html
@@ -138,6 +138,10 @@
 						</div>
 					</div>
 
+					<div class="event_area scrollbox">
+						<a href="http://m.reebok.co.kr/MO/Club/clubCampainView.action?event_id=4645"><img src="/images/reebok/about/classic/nylon/bottom.jpg" alt=""></a>
+					</div>
+
 
 					<!--// video_visual -->
 					<div class="title"><img src="/images/reebok/about/classic/nylon/title.png" alt=""></div>
@@ -253,7 +257,7 @@
 							<em class="icons aft" data-icon=""></em>
 						</a>
 					</div>
-					
+
 					<!-- //promotion -->
 				</div>
 				<!-- //about_camapign -->
